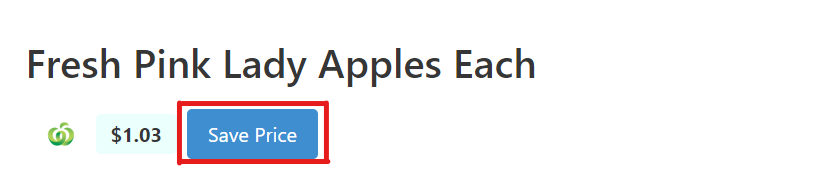
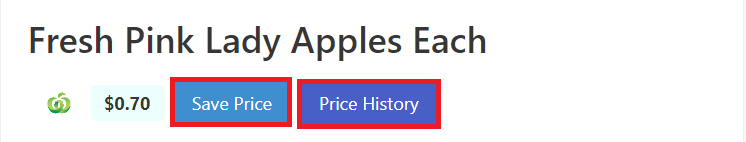
howto update

Changed region(s): [[0.1233, 0.5352, 0.6166, 0.9577], [0.0308, 0.169, 0.6783, 0.507], [0.0308, 0.6479, 0.0925, 0.8451]]

diff --git a/core/templates/howto.html b/core/templates/howto.html
@@ -72,12 +72,12 @@
             <img src="{% static 'img/step10.png' %}" alt="My image">
         </p>
         <p>------------------------------------------------------------------</p>
-        <p>Save the latest price by clicking the "Save Price" button next to the product price</p><br>
+        <p>Save the latest price by clicking the "Save Price" button next to the product price. To view the price you just saved cick the "Price history" button </p><br>
         <p style="text-align:left;">
             <img src="{% static 'img/step11.png' %}" alt="My image">
         </p>
         <p>------------------------------------------------------------------</p>
-        <p>You can now see the price you just saved, along with all the old prices next to their dates in the table below</p><br>
+        <p>You can now see the price you just saved along with the older prices in the table. You can even see the price variation in the graph further below!</p><br>
         <p style="text-align:left;">
             <img src="{% static 'img/step12.png' %}" alt="My image">
         </p>
